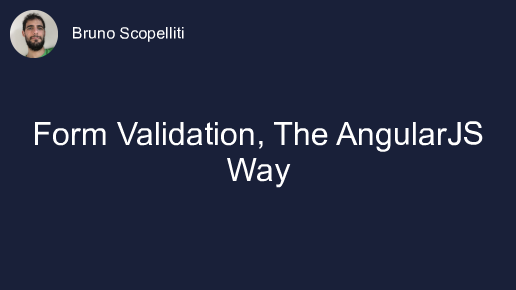
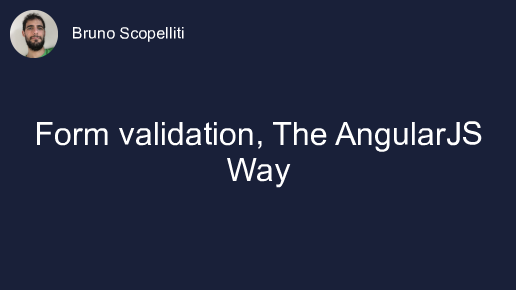
Update titles, and images

Changed region(s): [[0.5271, 0.4034, 0.9302, 0.5276], [0.062, 0.4034, 0.4961, 0.4966], [0.4961, 0.4966, 0.5271, 0.5276]]

diff --git a/www/layouts/blog/post.html b/www/layouts/blog/post.html
@@ -3,6 +3,7 @@
 <meta name="twitter:creator" content="{{- .Param "twitter" -}}">
 <meta name="twitter:title" content="{{- .Title -}}">
 {{ $cleanTitle := replace .Title "#" "" }}
+{{ $cleanTitle := replace $cleanTitle "+" "" }}
 {{ $cleanTitle := $cleanTitle | urlize }}
 <meta name="twitter:image" content="/images/post-cards/{{- $cleanTitle -}}.png">
 <meta name="twitter:description" content="{{ .Params.preview | truncate 200 }}">

diff --git a/tools/image/index.js b/tools/image/index.js
@@ -34,7 +34,7 @@ const createBaseImage =
 
 const formatName =
   (title) => {
-    return title.toLowerCase().replace(/\s/g, "-").replace(/[^\w-]/g, "");
+    return title.toLowerCase().replace(/\s/g, "-").replace(/[^\w-]/g, "").replace(/-+/g, "-");
   }
 
 (async function Main () {

diff --git a/www/content/blog/building-a-restful-web-service-with-angularjs-and-php-more-power-with-resource.md b/www/content/blog/building-a-restful-web-service-with-angularjs-and-php-more-power-with-resource.md
@@ -1,5 +1,5 @@
 ---
-title: "Building a RESTful web service with AngularJS (and PHP) – More power with $resource"
+title: "Building a RESTful web service with AngularJS $resource"
 preview: "This is a two parts post about how to integrate an AngularJS application with a RESTful service."
 date: 2013-09-05T09:00:00+01:00
 meta_description: "Advantages of using AngularJS's $resource, over the built-in $http service"

diff --git a/www/content/blog/first-look-at-app-development-in-angularjs-2.md b/www/content/blog/first-look-at-app-development-in-angularjs-2.md
@@ -1,5 +1,5 @@
 ---
-title: "First look at App Development in AngularJS 2"
+title: "First look at app development in AngularJS 2"
 preview: "A couple of weeks ago David East gave a short introduction about application development in AngularJS; this is the video of the talk, and my notes from his talk."
 date: 2015-02-26T09:00:00+01:00
 meta_description: "AngularJS 2 features preview"

diff --git a/www/content/blog/building-a-restful-service-with-angularjs-and-php-backend-setup.md b/www/content/blog/building-a-restful-service-with-angularjs-and-php-backend-setup.md
@@ -1,5 +1,5 @@
 ---
-title: "Building a RESTful service with AngularJS (and PHP) – Backend setup"
+title: "Building a RESTful service with AngularJS (and PHP)"
 preview: "This is a two parts post about how to integrate an AngularJS application with a RESTful service."
 date: 2013-09-03T09:00:00+01:00
 meta_description: "Implementation of a RESTful service"

diff --git a/www/content/blog/angularjs-directive-to-test-the-strength-of-a-password.md b/www/content/blog/angularjs-directive-to-test-the-strength-of-a-password.md
@@ -1,5 +1,5 @@
 ---
-title: "AngularJS Directive to test the strength of a password"
+title: "AngularJS directive to test the strength of a password"
 preview: "I'm implementing an AngularJS directive to check real time the strength of a password."
 date: 2013-04-24T09:00:00+01:00
 meta_description: "AngularJS directive check password strength"

diff --git a/www/content/blog/qunit-custom-assertions.md b/www/content/blog/qunit-custom-assertions.md
@@ -1,5 +1,5 @@
 ---
-title: "Custom Assertions are my favourite QUnit feature"
+title: "Custom assertions are my favourite QUnit feature"
 aliases:
   - /qunit-custom-assertions
 preview: "I think custom assertions are great, because in a concise manner, they make extremely clear what a test is for. You should definetely give them a try."

diff --git a/www/content/blog/angularjs-directive-to-check-that-passwords-match.md b/www/content/blog/angularjs-directive-to-check-that-passwords-match.md
@@ -1,5 +1,5 @@
 ---
-title: "AngularJS Directive to check that passwords match"
+title: "AngularJS directive to check that passwords match"
 preview: "I'm implementing an AngularJS directive to validate that two passwords match."
 date: 2013-04-16T09:00:00+01:00
 meta_description: "AngularJS directive validate form password match"

diff --git a/www/content/blog/form-validation-the-angularjs-way.md b/www/content/blog/form-validation-the-angularjs-way.md
@@ -1,5 +1,5 @@
 ---
-title: "Form Validation, The AngularJS Way"
+title: "Form validation, The AngularJS Way"
 preview: "An overview of form validation in an AngularJS web application."
 date: 2013-03-12T09:00:00+01:00
 meta_description: "Client side form validation in an AngularJS web application."

diff --git a/www/content/blog/use-cases-of-angularjs-directives.md b/www/content/blog/use-cases-of-angularjs-directives.md
@@ -1,5 +1,5 @@
 ---
-title: "Use Cases of AngularJS Directives"
+title: "Use cases of AngularJS directives"
 preview: "I explore AngularJS directives, and some of their typical use cases within an application."
 date: 2013-02-26T09:00:00+01:00
 meta_description: "Use case of AngularJS directives"

diff --git a/www/content/blog/xhr-interceptor-in-an-angularjs-web-app.md b/www/content/blog/xhr-interceptor-in-an-angularjs-web-app.md
@@ -1,5 +1,5 @@
 ---
-title: "XHR Interceptor in an AngularJS web app"
+title: "XHR interceptor in an AngularJS web app"
 preview: "AngularJS allows to intercept the response coming from the server."
 date: 2013-11-19T09:00:00+01:00
 meta_description: "XHR Interceptor in an AngularJS application"

diff --git a/www/content/blog/git-productivity-trick.md b/www/content/blog/git-productivity-trick.md
@@ -1,5 +1,5 @@
 ---
-title: "Git Workflow PRO Tip"
+title: "Git workflow PRO tip"
 aliases:
   - /pro-tip
 preview: "That's something really simple, and yet extremely effective, especially if you're the kind of developer, who is often switching context ..."
